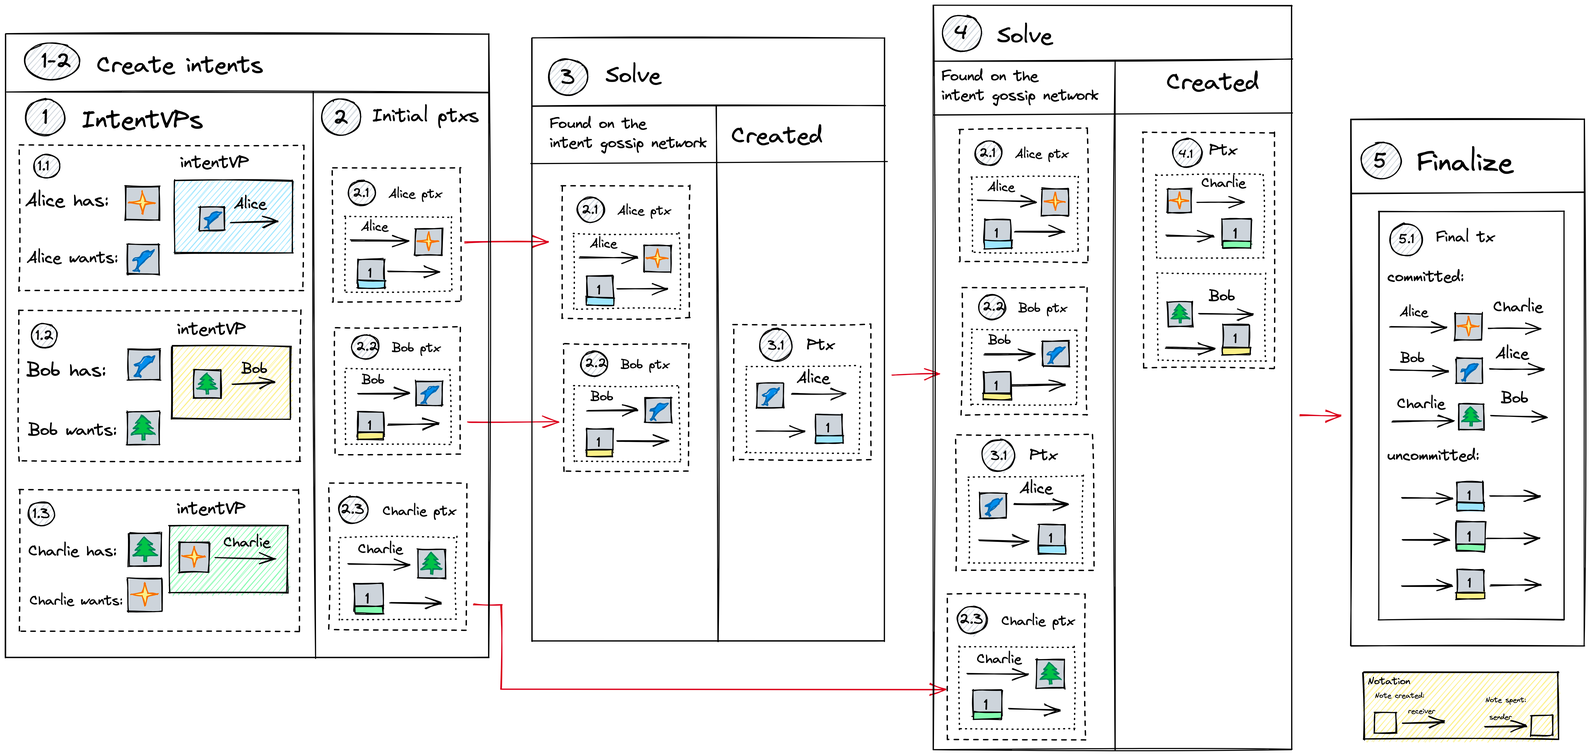
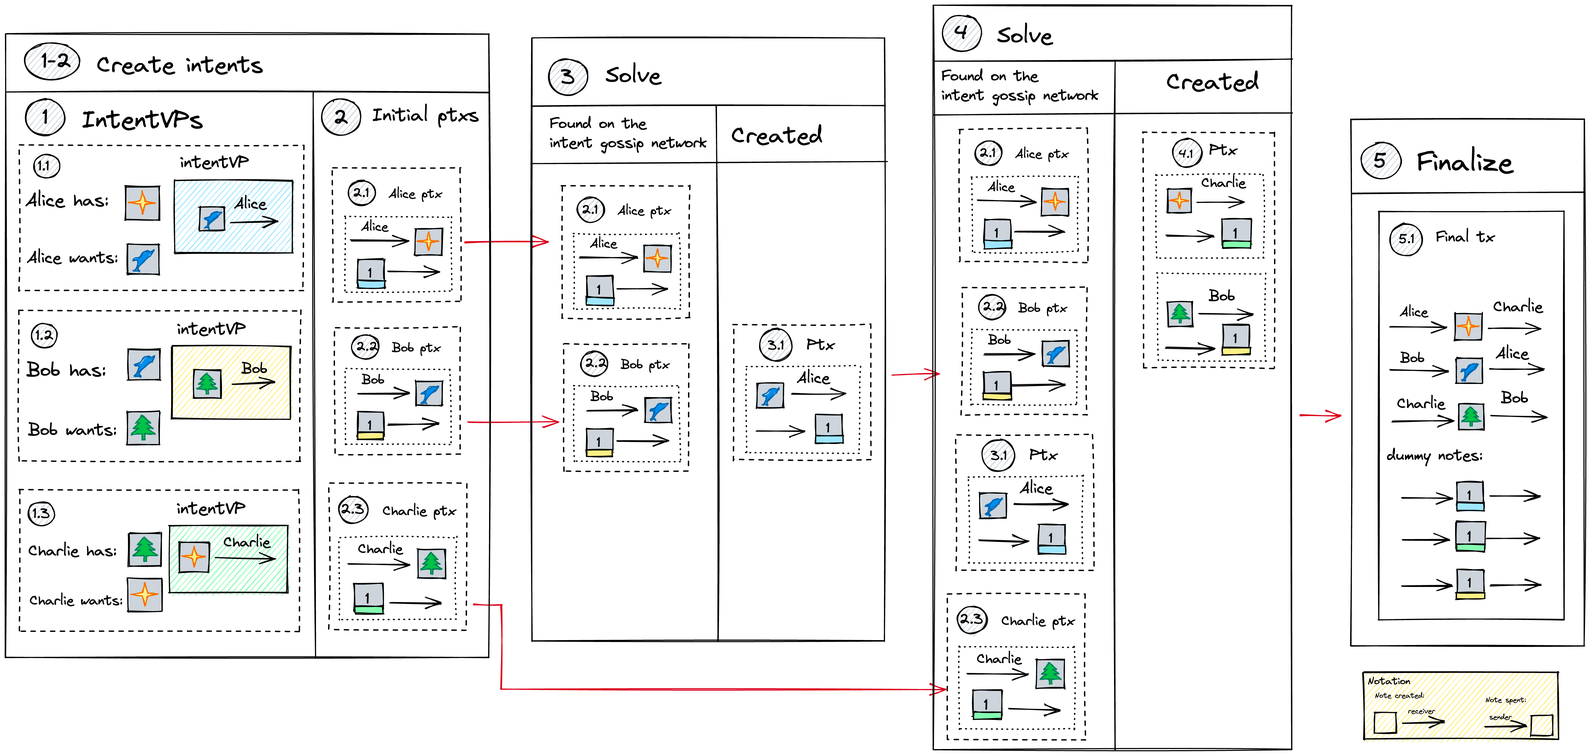
Final edit

Changed region(s): [[0.9952, 0.2784, 1.0, 0.6806], [0.8708, 0.5878, 0.933, 0.6187], [0.8708, 0.3403, 0.9019, 0.3712]]

diff --git a/book/src/notes.md b/book/src/notes.md
@@ -1,25 +1,32 @@
 # Notes
 
-A **note** is an immutable object that represents a unit of value. Each note belongs to a certain application (which defines the note's type), and can store some data.
+A **note** is an immutable object that represents a part of the application state. Each note belongs to a certain application (that defines the note's type), and can store some data.
 
-#### Sending notes
+As notes are immutable, notes cannot be modified, only spent or created. "Modifying" a note would be done by spending the current note and creating the same, but modified, note.
 
-As the notes are immutable, sending a note (transfering the ownership) means **destroying** the existing note (spent note) and **creating** a new note (output note) with a different owner.
 
-`Note(owner: A, application: T, value: V) -> Note(owner: B, application: T, value: V)`
 
-To send a note, the owner needs to prove the ownership which is done by revealing note's nullifier `nf`.  The nullifier is only known to the owner of the note and revealing it destroys the note. All revealed nullifiers are stored in a public nullifier tree `NFtree` to make sure none of the notes are spent twice.
+##### Note privacy
+The notes are distributed in an encrypted form, and only the owner knows the decryption key. 
+To prove properties of the notes (e.g. ownership) without revealing the notes, we use ZK proofs.
 
-##### Proving ownership in ZK
-All of the notes are kept shielded and created notes are sent to users in an encrypted form. To keep the notes shielded, ZK proofs are used. Using ZK proof, one can prove the ownership without revealing the note itself (see [Action circuit](action.md)).
+#### The note commitment tree & the nullifier set
 
-#### The commitment tree
+Each created note is added to a public Merkle tree. To keep the notes private, instead of the notes themselves, 
+the tree contains note commitments `cm` that are binded to the actual notes. 
+This tree is called a note commitment tree `CMTree`. 
 
-Each created note exists in a public merkle tree `CMtree` of notes. To keep the notes shielded, the tree contains note commitments `cm` instead of the notes themselves. This tree is called a note commitment tree.
+Notes are never deleted from the note commitment tree, 
+and to signal that the note has been spent and isn't valid anymore, its nullifier `nf` is added to the public nullifier set.
+
+||`cm` isn't published|`cm` is published|
+|-|-|-|
+|`nf` isn't published|note doesn't exist|note created|
+|`nf` is published|impossible|note spent|
 
 ### Note structure fields
 
-To understand the notes better, let's look at some fields in the note strucutre:
+Let's look at some fields in the note structure:
 
 ```rust
 pub struct Note {
@@ -32,21 +39,29 @@ pub is_merkle_checked: bool,
 }
 ```
 #### The application data
-Note's `value_base` encodes the type of the note. The value base is derived from the application-specific data such as application VP, and some note-type-related details (e.g. for NFTs it would be the NFT description). As value base is the same for all notes of the same type, it should only include fairly long-term data, and the ephemeral data goes into `app_data_dynamic`. That field can contain input parameters for VP circuits, sub-VPs, and other data provided by the app.
+Notes contain quite a lot of data provided by the application the notes belong to. 
+Part of that data is more long-term (e.g. the application VP) and used to derive the note's `value_base`, while
+the other part is more contextual (e.g. the input parameters for the application VP) and is stored in `app_data_dynamic`. 
+In general, all data that is not used to derive the value base is stored in the `app_data_dynamic`.
 
-#### Note values & dummy notes
-For traditional applications like cryptocurrencies value field carries the traditional meaning e.g. USDC note of value 5 is equivalent to 5 dollars, but for more abstract applications the value field might change its meaning or loose it whatsoever. 
-However, no matter that meaning the application gives to the value, value field is still used to check the transaction balance (learn more in the exec model desc)
+#### Note values
+For more traditional applications like cryptocurrencies the `value` field carries the natural meaning 
+e.g. a USDC note of value 5 is equivalent to 5 dollars, but for more abstract applications the value field might change its meaning or even loose it. 
+However, no matter what meaning the application gives to the value, Taiga isn't aware of that and uses the `value` field of notes to check the transaction balance.
 
-Dummy notes are a sort of placeholders that don't a
-ctually contain meaningful for the ledger data but look like real notes.
-In some systems such as Zcash, dummy notes are identified by their values - zero value note is considered dummy. However, this isn't true for Taiga. As Taiga generalizes the idea of a note, zero-value notes can still be important, so in Taiga we mark dummy notes by not checking the merkle path for them. `is_merkle_checked` flag marks if the note is dummy or not.
+#### Dummy notes
+Some notes in Taiga can be dummy, meaning that unlike "normal" notes, the merkle path isn't checked for them (indicated by the `is_merkle_checked` flag), 
+but they can have arbitrary value and are stored in the commitment tree, just like "normal".
 
-#### Who spends the notes?
+Being a dummy note and having zero value are two independent concepts in Taiga, unlike some other systems. 
+Zero value notes aren't necessarily dummy, dummy notes can have non-zero value. 
 
-Each note contains a field `nk_com` encoding the nullifier key (nk) of the note's owner. Notes don't have explicit owners, but are rather linked to the owner via the nullifier key. Whoever knows the nullifier key, can compute the note's nullifier and spend the note. The note doesn't contain the nullifier key itself, but only a commitment to it, which hides the key value (so it isn't enough to look at the note's content to be able to spend it).
+#### Who owns the notes?
 
-
+Each note contains a field `nk_com` encoding the nullifier key `nk` of the note's owner. 
+Whoever knows the nullifier key, can compute the note's nullifier and spend the note. 
+The field `nk_com` doesn't actually contain the nullifier key itself, but a commitment to it, 
+which hides the key value (so it isn't enough to look at the decrypted note to be able to spend it).
 
 
 

diff --git a/book/src/exec_examples.md b/book/src/exec_examples.md
@@ -7,16 +7,16 @@ Let's see how different use cases can be handled with the Taiga execution model.
 ### 1. Two-party exchange with an intent userVP
 
 Let's consider the situation where one of the parties uses the intent application, and the other party doesn't.
-Here Alice has two notes [1]A and [2]B and wants to get a blue dolphin NFT in exchange for one of them and get the other one back. 
-Alice uses intent application to express her preferences. Bob has a blue dolphin NFT and wants [1] of token A in exchange for it. 
+Here Alice has two notes [1]A and [2]B and wants to get a blue dolphin NFT in exchange for one of them and get the other one back.
+Alice uses intent application to express her preferences. Bob has a blue dolphin NFT and wants [1]A in exchange for it.
 As Bob knows what he wants, no intent userVP needed.
 
-![img_1.png](images/exec_complex_intent_plus_no_intent.png)
+![img.png](images/exec_examples_intent_and_no_intent.png)
 
-**Step 1-2**: Alice creates her intent userVP, both Alice and Bob create their initial partial transactions. 
-Alice spends both of her notes she could give away, expecting to receive one of them back (the other one will go to the counterparty).
+**Step 1-2**: Alice creates her intent userVP, both Alice and Bob create their initial partial transactions.
+Alice spends both of her notes she could give away, expecting to receive one of them back (the other one will go to Bob).
 
-**Step 3**: A solver sees Alice's and Bob's partial transactions and matches them together. 
+**Step 3**: A solver sees Alice's and Bob's partial transactions and matches them together.
 Alice receives the blue dolphin NFT and one of her notes ([2]B) back,
 her intent userVP is satisfied and Alice's intent note is spent. Bob has already sent himself the note he wanted, so the solver doesn't create notes for Bob.
 All total (accumulated over ptxs) per-token balances are equal to 0, and the final transaction can be created.
@@ -35,23 +35,23 @@ We assume here that all applications support userVPs and that both Alice and Bob
 
 ### 2. Three-party barter
 
-Three parties, Alice, Bob, and Charlie, are looking for some assets in exchange for something else.
+Alice, Bob, and Charlie, are looking for some NFTs in exchange for other NFTs.
 Their intents can be matched into a three-party bartering cycle. Let's see step by step how this happens.
 
 **Note**: parties don't ask for a three-party bartering explicitly.
 
-**Note**: in the example below each party uses the intent app to describe simple requests that can be satisfied without the intent app. 
-It helps to show how the intent app can be used without making the diagram and the example overcomplicated.
+**Note**: in the example below each party uses the intent app to describe simple requests that can be satisfied without the intent app.
+Even though it isn't necessary to use the intent application for simple requests, it helps to show how the intent app can be used without making the diagram and the example overcomplicated.
 
 ![img.png](images/exec_3_party.png)
 
-**Step 1-2**: The users create their intent userVPs. It doesn't have to happen at the same time for all users, 
-but for simplicity we describe it as one step. The intent userVPs of all three users have the same structure: 
-users are willing to spend their asset (Alice - a star, Bob - a dolphin, Charlie - a tree) in exchange for some other asset, 
+**Step 1-2**: The users create their intent userVPs. It doesn't have to happen at the same time for all users,
+but for simplicity we describe it as one step. The intent userVPs of all three users have the same structure:
+users are willing to spend their asset (Alice - a star, Bob - a dolphin, Charlie - a tree) in exchange for some other asset,
 and once the user receives the desired asset, the user's intent is satisfied.
 Users create their initial partial transactions spending the asset they want to give away (Alice ptx, Bob ptx, and Charlie ptx).
 
-**Step 3**: A solver sees Alice's ptx and Bob's ptx, matches them together, and creates a new partial transaction 
+**Step 3**: A solver sees Alice's ptx and Bob's ptx, matches them together, and creates a new partial transaction
 (expecting to find a third ptx to create the cycle). Alice's intent userVP is satisfied, and her intent note can be spent.
 The solver adds the required VP proofs to the freshly created partial transactions.
 
@@ -106,4 +106,4 @@ total balance becomes zero, and the transaction can be finalized. If the state i
 another [1] value note with the new (but not final) state is produced, the total balance is non-zero and the transaction cannot be finalized.
 In that case, the step 2 is repeated until the final state is computed.
 
-**Note**: different states imply different token types, and the old state note cannot balance a new state note.
+**Note**: different states imply different note types, and the old state note cannot balance a new state note.

diff --git a/book/src/app.md b/book/src/app.md
@@ -1,33 +1,33 @@
 # Application
 
-In Taiga, applications express their logic in validity predicates (often referred as `appVP`) that are checked each time the application's state is about to be changed. 
-So, if a suggested state transition breaks the application rules, the `appVP` of that application won't approve the transaction. 
+### Application logic
+Application VP is the defining structure of an application that contains the application logic. 
+Every time the application state is about to change, the application VP is called to validate the state transition.
+If the application VP doesn't consider a state transition valid, the state will not be changed.
 
-As Taiga works in the UTXO model, application states are stored in notes, and changing the application state is done by spending old application state notes and creating new application state notes.
+An application VP might require validity of other VPs, enforcing the VP hierarchy with the application VP being the main VP checked.
 
-Applications in Taiga are shielded, which means that the `appVP` of each application is hidden, the notes containing application states are encrypted, 
+#### Application address
+Each application has an address that identifies the application. The application address is derived from its application VP (or VPs, if there is more than one).
+
+### Application state
+As Taiga works in the UTXO model, application states are stored in notes, and changing the application state is done by spending the old application state notes and creating new application state notes.
+
+The application a note belongs to is indicated by the note's type which is derived using the application address, binding the note with the application.
+One application can have notes of multiple types, all of which are derived using the application address and some additional information that helps to distinguish the application types.
+Notes of distinct types are independent of each other, unless explicitly designed.
+
+![img.png](images/app_note_with_multiple_types.png)
+
+#### Shielded applications
+All applications in Taiga are shielded, which means that the application VP of each application is hidden, the notes containing application states are encrypted, 
 and the produced transactions don't reveal any information about the applications they change the state of. 
 
 ![img.png](images/app_intro.png)
 
-#### Is it like Ethereum?
+#### Are Taiga applications similar to Ethereum applications?
 
 In some sense, Taiga applications are similar to Ethereum applications, but there are two key distinctions that come to mind:
-* Ethereum uses smart contracts (imperative) when Taiga uses validity predicates (declarative) to express the application logic (learn more about the difference in the [Anoma whitepaper](https://github.com/anoma/whitepaper/blob/main/whitepaper.pdf), check page 3)
+* Ethereum uses smart contracts when Taiga uses validity predicates to describe the application logic (learn more about the difference [here](https://github.com/anoma/whitepaper/blob/main/whitepaper.pdf), page 3)
 * Taiga applications are shielded by default, but can be defined separately over the transparent pool as well. The shielded and transparent parts of the application can interact with each other, but whatever happens in Taiga is always shielded
 
-### Application VP
-Each application has an [`appVP`](./validity-predicates.md) that defines the conditions on which the application can be used (i.e. the application notes can be sent or received). Every time a note that belongs to the application is spent or created, `appVP` is called to authorize the transaction.
-
-`AppVP` might also require validity of other VPs, enforcing a VP hierarchy with an `appVP` being the main VP checked. This might be userful, for example, when an application has users and allows them to express their interests by supporting user-defined validity predicates. In that case, the application is responsible for making sure the users' interests are satisfied - Taiga is agnostic of sub-VPs.
-
-#### Application notes
-The application a note belongs to is indicated by the note's type. The note type is derived using the application address, that is itself derived from the application VP. 
-The note type might be further specified so that an application can have notes of multiple types all of which belong to the same application. 
-Notes of distinct types are independent of each other, unless explicitly designed.
-
-![img_1.png](images/app_with_multiple_note_types.png)
-
-#-- example
-
-The simplest application could be a cryptoasset application CRY with the `appVP` that makes sure that the transaction is balanced.

diff --git a/book/src/validity-predicates.md b/book/src/validity-predicates.md
@@ -1,17 +1,17 @@
 # Validity predicate (VP)
 
-In Taiga, there are two types of mechanisms enforcing the validity of a transaction: 
-* the first type is the Taiga rules that are the same for all transactions (e.g. the note must exist before being spent) and are checked by the [Action circuit](./action.md).
-* the second type is called **validity predicates**. The choice of VPs to be checked to validate a transaction depends on the applications involved in the transaction.
+In Taiga, there are two types of mechanisms checking the validity of a transaction: 
+* the first type checks the transaction against the Taiga rules that are the same for all applications (e.g. the note must exist before being spent). Such constraints are checked by the [Action circuit](./action.md) and the binding signature.
+* the second type is called **validity predicates** (VP). The choice of VPs to validate a transaction depends on the applications involved in the transaction.
 
 A **validity predicate** is a piece of code defined by an application that authorizes transactions the application is involved in.  A valid (can be published on the blockchain) transaction satisfy the VPs of all involved applications.
 
-A single transaction that changes the state of two applications has to be:
-* checked against the Taiga rules (the Action circuit)
+A transaction that changes the state of two applications has to be:
+* checked against the Taiga rules by the Action circuit
 * checked against the VP of the first application
 * checked against the VP of the second application
 
-Every VP is called **once** per transaction to validate the state transition (e.g. if the state of the same app changes twice within one transaction, the `appVP` is called only once and is checking the total state transition).
+Every VP is called **once** per transaction to validate the state transition, so if the state of the same application changes twice within one transaction, the `appVP` is called only once and is checking the total state transition.
 
 Some simple VP examples:
 - white list VP allows only specific users to change the application state
@@ -22,9 +22,9 @@ Validity predicates in Taiga have a hierarchical structure. For all applications
 These VPs might require validity of some other VPs in order for a transaction to be considered valid. 
 In that case, those other VPs must be checked too.
 
-Hierarchical structure of VPs might come in handy in the situations where the application wants to enforce different checks depending on the use case. 
-One example of it could be applications that have users and allow them to have a `userVP`. 
-The application VP will enforce checking the `userVP` of each user involved in the transaction.
+Hierarchical structure of VPs might come in handy in the situations where the application wants to enforce different checks depending on the context. 
+One example of it could be applications that have users and allow them to have user-defined VPs. 
+The application VP then will enforce checking the `userVP` of each user involved in the transaction.
 
 ![img.png](images/vp_hierarchy.png)
 
@@ -39,11 +39,12 @@ Taiga uses the Halo2 proving system and validity predicates are represented as [
 For privacy reasons, all Taiga VPs share the same configuration (the set of building blocks available for the circuits), 
 and distinct VPs are created by specifying the *selectors* (that select which blocks to use).
 
-Zero-knowledge proofs hide the details of the transaction, but hiding the validity predicates themselves to provide functional privacy, it isn't enough.
+Zero-knowledge proofs hide the data, but they aren't always enough to hide the validity predicates themselves (to provide functional privacy).
 The halo2 proving system is designed to handle this issue naturally, accumulating the proofs together.
 
 ### VP interface
 
+ZKP circuits have two types of inputs: public (visible to everyone) and public (only known to the prover).
 All validity predicates share the same *public input interface*, but can have different *private* inputs.
 
 #### Public Inputs

diff --git a/book/src/exec.md b/book/src/exec.md
@@ -1,13 +1,6 @@
 # Taiga execution model
-
-balance check, vp check
-partial transactions
-solvers
-
-+ intents extend the execution model further, introducing programmability
-
 ## On a high level
-Taiga's execution model relies on the ideas of partial transactions and solvers. 
+Taiga's execution model relies on the ideas of intents and solvers. 
 Users express their interests and provide the resources to the solvers, and Taiga makes sure that the intents are satisfied atomically.
 
 Here is the high level description of the process, starting from expressing the user's preferences and ending up publishing a blockchain transaction representing the desired state transition:
@@ -30,7 +23,7 @@ Two of the main requirements for an Anoma transaction to be valid are:
 2. The transaction must be **balanced** , i.e the value spent in the transaction minus the value output equals to some predefined value `v`, the **balancing value**. 
    The balancing value is transparent (visible to external observers) and can be involved in interactions with the transparent system.
 
-We call a **partial transaction** a state transition where the first requirement is satisfied (all VPs evaluate to True), but the second one isn't (the state transition is unbalanced). 
+We call a **partial transaction** a state transition for which all VPs evaluate to True, but the state transition is unbalanced. 
 Such a state transition isn't a valid transaction and cannot be published on the blockchain, 
 but can be combined with other partial transactions in order to build a valid transaction. 
 
@@ -82,7 +75,7 @@ Solvers are responsible for creation of all proofs (`Action`, `VP`, etc) require
 
 When solvers receive partial solutions from the gossip network, they must check all of the proofs attached to them.
 
-#### Local `cm` trees
+#### Local commitment trees
 
 To store note commitments of the created notes, a local commitment tree `CMtree` is created. After the transaction is finalized, the tree will be published on the blockchain along with the transaction.
 
@@ -111,9 +104,10 @@ The local CMTree and all of the proofs created are published on the blockchain a
 
 # How to express the preferences
 
-A user can express their preferences in two ways. When a user knows what they want, they can directly create the notes that they want for themselves, 
+A user can express their preferences in two ways. 
+
+When a user knows what they want, they can directly create the notes that they want for themselves, 
 and the counterparty will have to spend the notes that the user has created, balancing the transaction. 
 Such approach works well when a party knows exactly what they want, 
 but if a user can be satisfied with multiple possible state transitions, such approach wouldn't work well.
-In that case, they can use the help of the [intent application](./intent.md). To learn more about the differences between two ways, check [here](./https://hackmd.io/HQM3s-i_TH-VYCQgdk8SXw?both).
-
+In that case, they can use the help of the [intent application](./intent.md). 

diff --git a/book/src/intent.md b/book/src/intent.md
@@ -1,13 +1,13 @@
-# Intent Application
+# The Intent Application
 
-**Intent application** allows users to express their interests with high level of uncertainty about the final state transition. 
+The **intent application** allows users to express their interests with high level of uncertainty about the final state transition. 
 When a user doesn't have a specific interest but can be satisfied with multiple versions of a state transition, intents help.
 
-**Note**: Users can still use intents to express their interests even when they know what they want, but it is more expensive and unnecessarily complicated.
+**Note**: Users can still use intents to express their interests even when they know what they want, but it is more expensive and often unnecessarily complicated.
 
-Like all other applications, intent application has an application VP that defines the application logic. 
-Users of the intent application express their preferences in their `userVP`.
-Intent appVP hierarchically enforces the check of intent userVPs, 
+Like all other applications, the intent application has an application VP that defines the application logic. 
+Users of the intent application express their preferences in their userVPs.
+Intent application VP hierarchically enforces the check of intent userVPs, 
 and intent application notes are used to keep the transaction unbalanced (to make sure it doesn't get published), 
 until the interests of all users are satisfied.
 
@@ -19,16 +19,10 @@ Notes of that type are responsible to make sure that the intent userVP used to d
 Strictly speaking, the notes don't make the intent userVP to be satisfied, 
 but rather make sure that the transaction doesn't get published until the intent userVP is satisfied.
 
-When a user specifies their intent userVP, they create an intent note with the value base derived from the userVP and value 1.
-This note gets spent (balancing the transaction) only when the underlying intent is satisfied. 
+When a user specifies their intent userVP, they create an dummy intent note with the value base derived from the userVP and value 1.
+This note gets spent (balancing the transaction) only when the corresponding intent is satisfied. 
 Only a fully balanced transaction can be published on the blockchain, 
 and balancing the intent notes requires satisfying the intent userVPs.
-
-#### Dummy notes
-
-Intent app notes are **dummy** notes - meaning that unlike "normal" notes, the merkle path isn't checked for them (but they can have arbitrary value and stored in the CMtree, just like "normal").
-
-**Note**: being a dummy note and having zero value are two independent concepts in Taiga. Zero value notes aren't necessarily dummy, dummy notes can have non-zero value.
 
 #### How to use the intent application
 

diff --git a/book/src/action.md b/book/src/action.md
@@ -6,18 +6,18 @@ Unlike validity predicates, the Action circuit checks don't depend on the applic
 As an application state is contained in notes, and a state transition is represented as spending the old notes and creating new ones,
 the Action circuit checks the correctness of the old state by checking properties of the old notes and the correctness of the new state by checking the properties of the new notes.
 
-### Check the old state (the spent notes)
+### Check the old state (spent notes)
 
 For spent notes, the Action circuit checks that:
 * the note existed before (can you spend a note that doesn't exist?),
 * the note haven't been spent yet,
-* the user has a right to spend it (do you own the note?),
+* the spender has a right to spend it (do you own the note?),
 * and that the application the note belongs to approves the action (sure there is some application approves the check, but is it the one the note belongs to?).
 
-### Check the new state (the created notes)
+### Check the new state (created notes)
 
 For the notes being created, the Action circuit checks that:
 * the correct application approves it (same check as for spent notes)
-* and the note commitment is derived correctly (the thing that makes everyone to know that the note exists)
+* and the note commitment is derived correctly (the thing that makes everyone to know that the note exists must indeed represent the note)
 
 To learn in details about the checks the Action circuit performs, check the [technical specification of Taiga](./spec.md).

diff --git a/book/src/performance.md b/book/src/performance.md
@@ -1,11 +1,11 @@
 # Performance
-To give you a sense of performance, we benchmarked the action circuit and a vp circuit. 
+To give you a sense of performance, we benchmarked the action circuit and a simple VP circuit. 
 Action circuit is always the same and has a size about about $2^{15}$ gates, while the VP circuit size changes as the VPs differ from application to application. 
 In our benchmarks we used a VP circuit containing about $2^{17}$ gates.
 
-We benchmarked the performance of both circuits on Apple Macbook Air M1 with 16GB RAM.
+|Step|Action circuit|VP circuit|
+|-|-|-|
+|Prove|3.3s|1.7s|
+|Verify|32.2ms|33.8ms|
 
-|Step|Action circuit|VP circuit|Xuyang Action circuit| Xuyang VP circuit|
-|-|-|-|-|-|-|
-|Prove|1.7s|0.9s|3.3s|1.7s|
-|Verify|16.6ms|15ms|32.2ms|33.8ms|
+We benchmarked the performance of both circuits on Apple Macbook Air M1 with 16GB RAM.

diff --git a/README.md b/README.md
@@ -8,7 +8,7 @@ This repository contains the implementation of Taiga in Rust.
 
 ### Taiga overview & specification
 
-* To see the Taiga overview, run
+* To access the Taiga overview, run
 ```
 cd book
 mdbook serve --open
